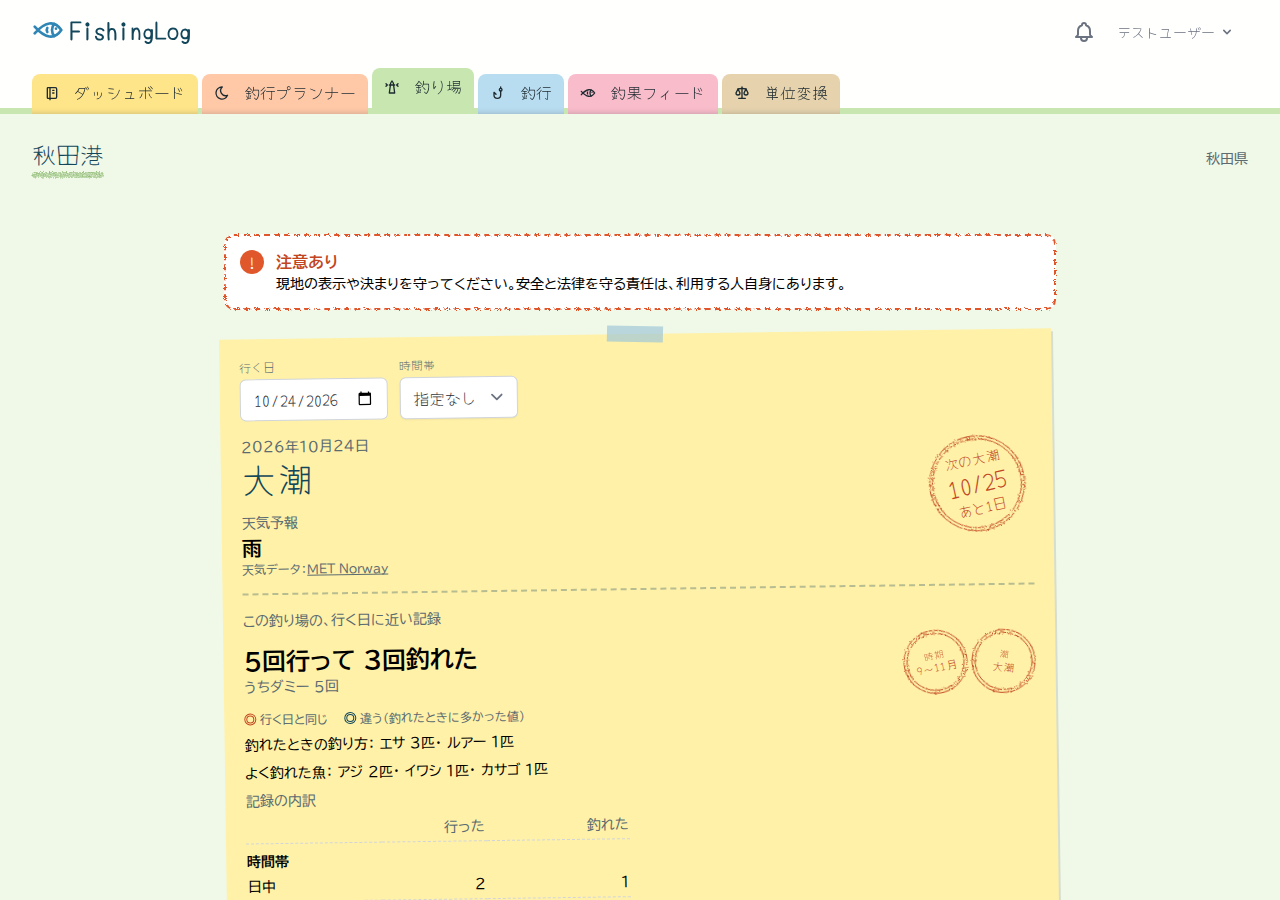
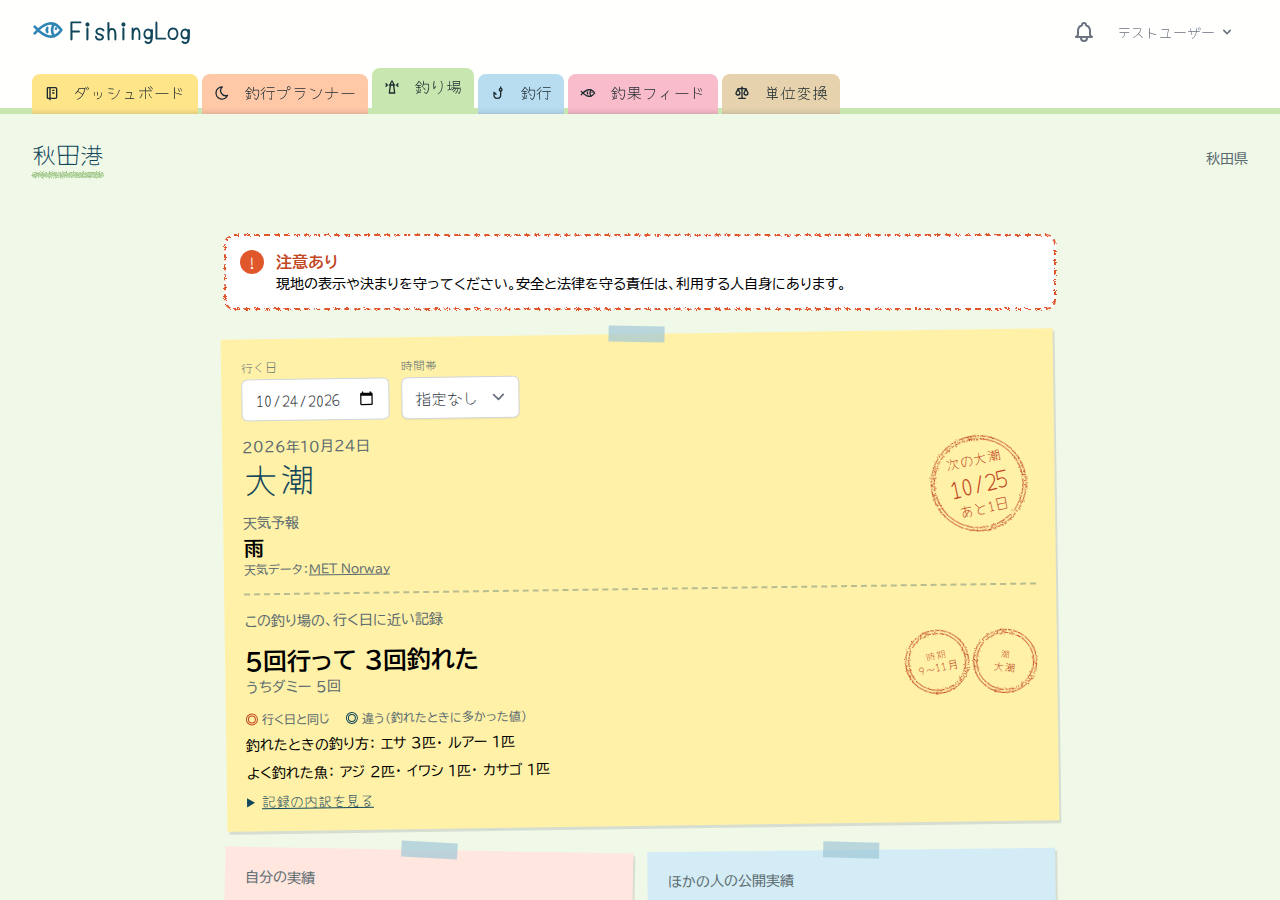
docs: 記録の内訳と変更の履歴の直しを使い方・対応表・README・記録に書き、カルテの画像を撮り直す (#223)

diff --git a/resources/views/static/guide.blade.php b/resources/views/static/guide.blade.php
@@ -42,7 +42,7 @@
                     <li>ダッシュボードの「次の釣行をプランする」か、付箋の「釣行プランナー」を開きます。ログインしていないときは、最初に県を選びます。</li>
                     <li><b>行く日</b>と<b>県</b>を選ぶと、その日の潮（旧暦から計算）と、過去の記録から釣り場が順に並びます。時間帯と「使う記録」（みんなの公開記録も使う／自分の記録だけ）も選べます（「使う記録」はログインした人だけ）。</li>
                     <li>釣り場ごとに、記録の近さが出ます。記録は、行く日と同じ時期（その月と前後1か月。何年でもよい）のものだけを使います。魚ごとに釣れる季節があるためです。<b>ぴったり一致</b>（時期・時間帯・潮が同じ）→ <b>時期と時間帯が一致</b> → <b>時期だけ一致</b> の順に、近い記録ほど当てになります。右のハンコは、時期・時間帯・潮のうち行く日と同じ条件がオレンジ、違う条件が青です（青には、釣れたときにいちばん多かった値が入ります）。</li>
-                    <li>「<b>記録の内訳を見る</b>」を押すと、数えた記録が時間帯・潮・年ごとに何回あるかが分かります。たとえば朝の記録ばかりなら、夜に行くときはあてにならないと判断できます。カルテでは、内訳を表でいつも出しています。</li>
+                    <li>「<b>記録の内訳を見る</b>」を押すと、数えた記録が時間帯・潮・年ごとに何回あるかが分かります。たとえば朝の記録ばかりなら、夜に行くときはあてにならないと判断できます。カルテでも同じ形で開けます。</li>
                     <li>灰色の「<b>ダミー</b>」の印が付いた釣行は、お試し環境で機能を試せるように作った記録で、本物の釣行ではありません。「うちダミー N回」は、数えた記録のうちダミーの回数です。</li>
                     <li>気になる釣り場を押すと<b>釣り場カルテ</b>が開きます。いちばん上の黄色の付箋（釣行判断ビュー）で、その条件のときに「何回行って何回釣れたか」と、釣れたときの釣り方・魚が分かります。</li>
                     <li>カルテには、天気予報・自分とほかの人の実績・月×魚種の表・釣行の履歴・現地の情報（駐車場・トイレなど）もあります。</li>

diff --git a/CLAUDE.md b/CLAUDE.md
@@ -101,7 +101,7 @@
 
 ## 今どこまでできているか（2026-10-24）
 
-**フェーズ1・フェーズ2は完了。** フェーズ3は条件検索（FN-03、#86）・CSV 出力（FN-04、#88）・継続カウンタと気づきカード（FN-10、#90）が完了。報告と管理画面（NF-04、#92・#94）が完了。見た目も土台（#96）・カルテ（#98）・ダッシュボードとプランナー（#100）・残りの画面（#102）でひととおり完了。テストは 399 件すべて成功。README も書き直した（#104）。シーダーの釣り場を実在の港と湖にした（#106）。ナビをインデックス付箋にした（#108）。注意のしるしと1位のマーカーを直した（#110）。魚や釣り具のアイコンと落書きを入れた（#112）。README に画面の画像を入れた（#114）。使い方のページを作った（#116）。利用規約とプライバシーポリシーを書き直し、退会で写真も消すようにした（#118）。エラーページ・タブのアイコン・初期のテストの片付け（#120）。単位変換ツール（#122）。せまい画面の付箋とスマホのメニューの並び（#124）。README の画面の画像を撮り直し、単位変換を足した。README に「記録が少ないうちも使い続けられる工夫」の節を足した（#126）。定義書との総点検で見つけた抜けを直した：釣り場一覧の釣果数と並べ替え（`sort`＝name／last／catches、ログインした人だけ）、釣り場のメモはカルテで本人だけ（#128）。プランナーとカルテから旧暦の表示を消し、カルテの次の大潮を付箋の右のスタンプにした（#130）。README の画面の表の3段目の画像の並びを直した（#132）。README の手順でゼロから動くことを確かめた。README の文を直した（要らない記載を消し、ひらがなの言葉を漢字に。#134）。インターネットに公開する準備（#136）：写真の保存先を `config/fishing.php` の `photo_disk`（PHOTO_DISK）で切りかえ（公開環境は s3＝Cloudflare R2）、お試し用アカウント `demo@example.com`（`User::isDemo()`。プロフィール・パスワードの変更と退会はできない）、公開環境のシーダーは admin を秘密のパスワード（ADMIN_PASSWORD）・ほかのダミーはランダム、`Dockerfile` と `docker/start.sh`（Render 用。起動のたびに migrate と `app:seed-if-empty`）、trustProxies と https。公開先は Render（アプリ）＋ Aiven（MySQL）＋ Cloudflare R2（写真）。釣行の記録の絞り込みで、県を「自分」にも出し（最初はメインフィールド、一覧と CSV も県で絞る）、県を選ぶと釣り場の候補がその県だけに入れかわる（#138、`spotPicker`）。公開した（#140）：https://fishing-log-hasx.onrender.com（Render 無料・Singapore、DB は Aiven の無料 MySQL、写真は Cloudflare R2 のバケット fishinglog-photos）。README のいちばん上に「お試し環境」。写真は保存のときに visibility を付けない（R2 が受け付けない）。天気のサービスの失敗はログに残す。**Render は main に push すると自動で公開し直す**。環境変数は Render の Environment にだけある。釣行の記録・編集・まとめて登録でも、県を選んでから釣り場を選ぶ（#142。最初はメインフィールドか選んである釣り場の県、写真の「この釣り場を選ぶ」は `select-spot` の知らせで県も切りかえる）。公開環境では Open-Meteo に1日の上限で断られる（429。Render の外へ出る住所をほかのアプリと一緒に使うため）ので、カルテは「今は取得できません」と開き直す案内を出す（#144、`forecastFailed`）。2026-10-15 に確かめると朝 9 時すぎしか取れなかったので、カルテの天気予報だけ MET Norway に変えた（#146。今日から 8 日先まで、その日でいちばん悪い天気、場所ごとに 1 時間覚える）。釣行の天候の自動入力は Open-Meteo のまま（取れなければ空で保存）。お試し環境の釣果に、自作の魚のイラスト（「サンプル」のスタンプ入り）を付けた（#148）。テストでは写真のフォルダを `Storage::fake('public')` にしている（`tests/TestCase.php`）。釣行の編集画面の今の写真も、写真の保存先の URL から出すようにした（#150。写真の URL は `FishCatch::photoUrl()` か `Storage::disk(PhotoStorer::disk())->url()` を使い、`asset('storage')` を決め打ちしない）。`NotificationSendTest` の退会のテストがまれに失敗していたのは、釣り場のファクトリーがランダムな県の登録者を作り、秋田県になるとその人にもお知らせが届いていたため（#152。テストでは釣り場の `created_by` を決める）。Aiven の無料のデータベースは「使われていない」と止められる（2026-10-15 18:53 に止められ、Power on で戻した。Event log の時刻は UTC）。GitHub Actions（`.github/workflows/keep-alive.yml`）で3時間に1回お試し環境を開いている（#154。リポジトリに60日間変更がないと GitHub が止める）。死活監視 UptimeRobot（無料）で5分おきに `/spots` を確かめていて、お試し環境は止まらない（#162。止まったらユーザーにメールが届く。GitHub Actions は予備）。**お試し環境が開かないときは、まず Aiven の `fishinglog-db` が Powered off になっていないか見る**。README のお試し環境に付箋ごとに試せることの表（#156）。プランナーとカルテの条件を、時期を先に絞る形にし、一致した条件をハンコで見せる（#158）。ダミーの釣行を840件にして季節を付け、公開環境のお試しデータを入れ直せるようにした（#160。入れ直したあとは釣り場の番号が変わる）。受けた指摘をもとに、改善を6つの Issue に分けて進めた（#162〜。死活監視 → 写真の後始末 → カルテと一覧の集計を DB に → プランナーの集計を DB に → 自己ベスト → 気づきカードの言い方と起動時の処理）。保存に失敗したときに写真のファイルを消すようにした（#164）。カルテと釣行一覧の集計をデータベースで行い、カルテの履歴を10件ずつにした（#166）。プランナーの集計もデータベースで行うようにした（#168）。自己ベスト：ダッシュボードの最大サイズから釣果へ、上位3つと /bests（写真つき。`BestController`、付箋はダッシュボード）（#170）。気づきカードを記録の少なさで言い分け、起動時の処理が同時に走らないようにした（#172）。この6つの改善はこれで全部済み。最大サイズと自己ベストに王冠を付けた（#174。釣行詳細の自己ベストの釣果に「自己ベスト」の印）。お試し用アカウントの自己ベストに、アイナメ以外サンプルのイラストを付けた（#176）。README のテストの件数を直した（#178）。シーズンヒートマップのページでダッシュボードの付箋が手前に出るようにした（#180）。記録の言い方をそろえた（#182）。PHP の緊急のセキュリティ修正で 8.5.12 に上げた（#184）。Dependabot で新しい版を見張るようにした（#186）。2回目の指摘（完了の説明・テストの再現・運用の決めごと）を受けて、直す手順を Notion の「FishingLog 2回目の指摘と直す手順」にまとめ、1つずつ進めている。① テストを GitHub Actions で自動で流す（#196）。② 要件ごとの対応表 `docs/requirements.md`（#198）。③ 現地の情報の変更履歴（#200。会員はカルテと `/spots/{spot}/history` で見られ、管理者は `POST /admin/spot-changes/{change}/revert` で戻せる）。④ 公開環境からパスワード再設定のメールを送れるようにした（#202。Brevo・Mailpit）。⑤ 公開環境の毎日の自動バックアップと戻す試し（#204）。⑥ 運用の手順書と本番リリース計画（#206。初回の点検は #207）。⑦ ゲストも釣行プランナーを試せるようにした（#209。数えるのはみんなの全体公開の記録だけ、県は選んでもらう（特定の県に決め打ちしない）、「自分の記録だけ」は会員だけ。トップに「登録しなくても試せること／登録すると使えること」）。⑧ ダミーの釣行に印を付け、記録の内訳を出した（#211。`users.is_sample`＝ダミーの人、印は `<x-dummy-tag :trip>`、回数は `ConditionMatcher` の `samples`、内訳は `breakdown()`・`breakdownBySpot()`。カルテは表 `spots/partials/breakdown-table`、プランナーは「記録の内訳を見る」。本番に移るときは `is_sample` の人を消す）。会員登録のときにメールアドレスを確かめるようにした（#213。`User` は `MustVerifyEmail`、ログインが必要なルートは `['auth', 'verified']`、プロフィールだけは `auth` のまま。送れないときは `sendEmailVerificationSafely()` で案内）。プロフィールのパスワードの変更を押すと開く形にし、カードを真ん中に置いた（#215）。⑨ 機能を主役・必須・補助・後回しに分けた（#217。README の「機能と優先度」と、対応表の「優先度」の列。**機能を足したら、どちらにも優先度を書く**。`RequirementsDocTest` が README との食い違いを確かめる）。⑩ 資料と画面の画像を見直した（#219。README の画像は scratchpad の `shoot.mjs`（Node 24 の WebSocket で chrome-headless-shell を動かす）で撮り直した。これで2回目の指摘の直しは全部済み）。README をコンパクトにし、詳しい内容を docs/ に分けた（#221）。最後の Issue は #221（PR と次の番号は画面で確かめる）。
+**フェーズ1・フェーズ2は完了。** フェーズ3は条件検索（FN-03、#86）・CSV 出力（FN-04、#88）・継続カウンタと気づきカード（FN-10、#90）が完了。報告と管理画面（NF-04、#92・#94）が完了。見た目も土台（#96）・カルテ（#98）・ダッシュボードとプランナー（#100）・残りの画面（#102）でひととおり完了。テストは 406 件すべて成功。README も書き直した（#104）。シーダーの釣り場を実在の港と湖にした（#106）。ナビをインデックス付箋にした（#108）。注意のしるしと1位のマーカーを直した（#110）。魚や釣り具のアイコンと落書きを入れた（#112）。README に画面の画像を入れた（#114）。使い方のページを作った（#116）。利用規約とプライバシーポリシーを書き直し、退会で写真も消すようにした（#118）。エラーページ・タブのアイコン・初期のテストの片付け（#120）。単位変換ツール（#122）。せまい画面の付箋とスマホのメニューの並び（#124）。README の画面の画像を撮り直し、単位変換を足した。README に「記録が少ないうちも使い続けられる工夫」の節を足した（#126）。定義書との総点検で見つけた抜けを直した：釣り場一覧の釣果数と並べ替え（`sort`＝name／last／catches、ログインした人だけ）、釣り場のメモはカルテで本人だけ（#128）。プランナーとカルテから旧暦の表示を消し、カルテの次の大潮を付箋の右のスタンプにした（#130）。README の画面の表の3段目の画像の並びを直した（#132）。README の手順でゼロから動くことを確かめた。README の文を直した（要らない記載を消し、ひらがなの言葉を漢字に。#134）。インターネットに公開する準備（#136）：写真の保存先を `config/fishing.php` の `photo_disk`（PHOTO_DISK）で切りかえ（公開環境は s3＝Cloudflare R2）、お試し用アカウント `demo@example.com`（`User::isDemo()`。プロフィール・パスワードの変更と退会はできない）、公開環境のシーダーは admin を秘密のパスワード（ADMIN_PASSWORD）・ほかのダミーはランダム、`Dockerfile` と `docker/start.sh`（Render 用。起動のたびに migrate と `app:seed-if-empty`）、trustProxies と https。公開先は Render（アプリ）＋ Aiven（MySQL）＋ Cloudflare R2（写真）。釣行の記録の絞り込みで、県を「自分」にも出し（最初はメインフィールド、一覧と CSV も県で絞る）、県を選ぶと釣り場の候補がその県だけに入れかわる（#138、`spotPicker`）。公開した（#140）：https://fishing-log-hasx.onrender.com（Render 無料・Singapore、DB は Aiven の無料 MySQL、写真は Cloudflare R2 のバケット fishinglog-photos）。README のいちばん上に「お試し環境」。写真は保存のときに visibility を付けない（R2 が受け付けない）。天気のサービスの失敗はログに残す。**Render は main に push すると自動で公開し直す**。環境変数は Render の Environment にだけある。釣行の記録・編集・まとめて登録でも、県を選んでから釣り場を選ぶ（#142。最初はメインフィールドか選んである釣り場の県、写真の「この釣り場を選ぶ」は `select-spot` の知らせで県も切りかえる）。公開環境では Open-Meteo に1日の上限で断られる（429。Render の外へ出る住所をほかのアプリと一緒に使うため）ので、カルテは「今は取得できません」と開き直す案内を出す（#144、`forecastFailed`）。2026-10-15 に確かめると朝 9 時すぎしか取れなかったので、カルテの天気予報だけ MET Norway に変えた（#146。今日から 8 日先まで、その日でいちばん悪い天気、場所ごとに 1 時間覚える）。釣行の天候の自動入力は Open-Meteo のまま（取れなければ空で保存）。お試し環境の釣果に、自作の魚のイラスト（「サンプル」のスタンプ入り）を付けた（#148）。テストでは写真のフォルダを `Storage::fake('public')` にしている（`tests/TestCase.php`）。釣行の編集画面の今の写真も、写真の保存先の URL から出すようにした（#150。写真の URL は `FishCatch::photoUrl()` か `Storage::disk(PhotoStorer::disk())->url()` を使い、`asset('storage')` を決め打ちしない）。`NotificationSendTest` の退会のテストがまれに失敗していたのは、釣り場のファクトリーがランダムな県の登録者を作り、秋田県になるとその人にもお知らせが届いていたため（#152。テストでは釣り場の `created_by` を決める）。Aiven の無料のデータベースは「使われていない」と止められる（2026-10-15 18:53 に止められ、Power on で戻した。Event log の時刻は UTC）。GitHub Actions（`.github/workflows/keep-alive.yml`）で3時間に1回お試し環境を開いている（#154。リポジトリに60日間変更がないと GitHub が止める）。死活監視 UptimeRobot（無料）で5分おきに `/spots` を確かめていて、お試し環境は止まらない（#162。止まったらユーザーにメールが届く。GitHub Actions は予備）。**お試し環境が開かないときは、まず Aiven の `fishinglog-db` が Powered off になっていないか見る**。README のお試し環境に付箋ごとに試せることの表（#156）。プランナーとカルテの条件を、時期を先に絞る形にし、一致した条件をハンコで見せる（#158）。ダミーの釣行を840件にして季節を付け、公開環境のお試しデータを入れ直せるようにした（#160。入れ直したあとは釣り場の番号が変わる）。受けた指摘をもとに、改善を6つの Issue に分けて進めた（#162〜。死活監視 → 写真の後始末 → カルテと一覧の集計を DB に → プランナーの集計を DB に → 自己ベスト → 気づきカードの言い方と起動時の処理）。保存に失敗したときに写真のファイルを消すようにした（#164）。カルテと釣行一覧の集計をデータベースで行い、カルテの履歴を10件ずつにした（#166）。プランナーの集計もデータベースで行うようにした（#168）。自己ベスト：ダッシュボードの最大サイズから釣果へ、上位3つと /bests（写真つき。`BestController`、付箋はダッシュボード）（#170）。気づきカードを記録の少なさで言い分け、起動時の処理が同時に走らないようにした（#172）。この6つの改善はこれで全部済み。最大サイズと自己ベストに王冠を付けた（#174。釣行詳細の自己ベストの釣果に「自己ベスト」の印）。お試し用アカウントの自己ベストに、アイナメ以外サンプルのイラストを付けた（#176）。README のテストの件数を直した（#178）。シーズンヒートマップのページでダッシュボードの付箋が手前に出るようにした（#180）。記録の言い方をそろえた（#182）。PHP の緊急のセキュリティ修正で 8.5.12 に上げた（#184）。Dependabot で新しい版を見張るようにした（#186）。2回目の指摘（完了の説明・テストの再現・運用の決めごと）を受けて、直す手順を Notion の「FishingLog 2回目の指摘と直す手順」にまとめ、1つずつ進めている。① テストを GitHub Actions で自動で流す（#196）。② 要件ごとの対応表 `docs/requirements.md`（#198）。③ 現地の情報の変更履歴（#200。会員はカルテと `/spots/{spot}/history` で見られ、管理者は `POST /admin/spot-changes/{change}/revert` で戻せる）。④ 公開環境からパスワード再設定のメールを送れるようにした（#202。Brevo・Mailpit）。⑤ 公開環境の毎日の自動バックアップと戻す試し（#204）。⑥ 運用の手順書と本番リリース計画（#206。初回の点検は #207）。⑦ ゲストも釣行プランナーを試せるようにした（#209。数えるのはみんなの全体公開の記録だけ、県は選んでもらう（特定の県に決め打ちしない）、「自分の記録だけ」は会員だけ。トップに「登録しなくても試せること／登録すると使えること」）。⑧ ダミーの釣行に印を付け、記録の内訳を出した（#211。`users.is_sample`＝ダミーの人、印は `<x-dummy-tag :trip>`、回数は `ConditionMatcher` の `samples`、内訳は `breakdown()`・`breakdownBySpot()`。カルテとプランナーで同じ部品 `<x-record-breakdown>`（「記録の内訳を見る」で開く。#223）。本番に移るときは `is_sample` の人を消す）。会員登録のときにメールアドレスを確かめるようにした（#213。`User` は `MustVerifyEmail`、ログインが必要なルートは `['auth', 'verified']`、プロフィールだけは `auth` のまま。送れないときは `sendEmailVerificationSafely()` で案内）。プロフィールのパスワードの変更を押すと開く形にし、カードを真ん中に置いた（#215）。⑨ 機能を主役・必須・補助・後回しに分けた（#217。README の「機能と優先度」と、対応表の「優先度」の列。**機能を足したら、どちらにも優先度を書く**。`RequirementsDocTest` が README との食い違いを確かめる）。⑩ 資料と画面の画像を見直した（#219。README の画像は scratchpad の `shoot.mjs`（Node 24 の WebSocket で chrome-headless-shell を動かす）で撮り直した。これで2回目の指摘の直しは全部済み）。README をコンパクトにし、詳しい内容を docs/ に分けた（#221）。モデル港のメモの同じ文を1回にし、変更の履歴は改行だけの違いを残さず長いメモを短く出す、記録の内訳をカルテとプランナーでそろえた（#223。`LocalInfoHistory::normalize()` が改行をそろえる）。最後の Issue は #223（PR と次の番号は画面で確かめる）。
 
 ### フェーズ2でやったこと（決めたことは `docs/decisions.md`）
 

diff --git a/docs/decisions.md b/docs/decisions.md
@@ -254,3 +254,4 @@
 | 2026-10-24 | プロフィールのパスワードの変更をコンパクトに | FN-05：プロフィール編集 | パスワードの変更は、ふだんは見出しと説明の1行だけにし、押すと入力欄が開く形（`details`）にする。エラーのときと変えたあとは開いたまま。プロフィールのカードは、ほかの画面と同じ幅（`max-w-2xl`）で真ん中に置く | たまにしか使わない入力欄が大きく場所を取り、中身が左に寄っていた（ユーザーが画面で気づいた）。パスワード再設定は忘れたとき、プロフィールの変更は覚えていて変えたいとき、と使う場面が違うので、機能は残した |
 | 2026-10-24 | 機能の優先順位と境界 | 定義書の Phase：Phase 1 に FN-01・05・06・07・08・09・11・12・13・14・15・16・17、Phase 3 に NF-04（報告と管理画面）。主役は FN-16・FN-11 | 機能を「主役（FN-16・FN-09・FN-11）・必須（主役の土台と、公開して使ってもらうのに欠かせない運用）・補助（なくても主役は動く）・後回し（今回は作らない）」に分け、README の「機能の優先順位と境界」と、要件の対応表の「優先度」の列に書く。定義書の Phase 1 のうちダッシュボード（FN-06）・ハイライト（FN-07）・釣果フィード（FN-13）は補助に下げ、Phase 3 の報告と管理画面（NF-04）と、定義書にないメールアドレスの確認は必須に上げる。完成の境界は「お試し環境として（主役と必須がそろう）」と「本番として（開発者自身の釣行の登録と本番リリース計画の必須が済む）」の2段 | 機能を広げることに対して完了条件や運用の準備が追いついておらず、主要な機能と必須の運用を優先して後続の機能との境界を明確にするべきだ、という指摘を受けたため。定義書の優先順位そのものを見直すことが求められていると考え、定義書の Phase にはそろえない（ユーザーの判断）。FN-06・07 はなくてもプランナーとカルテで判断でき、FN-13 の「ゲストの入口」の役目はゲストも試せるプランナーが担える（#209）。後回しは、定義書と本番リリース計画に書いてあるものだけにした。`RequirementsDocTest` で、優先度の書き忘れ・まとめの件数・README との食い違いを確かめる |
 | 2026-10-24 | README をコンパクトに | 記載なし | README を「入口」（何のアプリか・お試し環境・画面・機能と優先度・工夫・使った技術・動かし方・資料の一覧・開発の記録）にして 437 行から 166 行にした。「使い方」「機能の優先順位と境界」「主な機能」は優先度ごとの1つの表にまとめた。ER 図は `docs/database.md`、開発用のログインとデータ・気をつけること・負荷の確かめは `docs/development.md`、公開先の止まらないしくみと起動時の処理は `docs/operations.md` に移した。見張りのテスト（ER 図・優先度）は新しい置き場所を読む | 直しを重ねて README が広がり、見つけにくくなった（ユーザーの判断）。実務では README を入口にし、詳しい資料は分けてリンクする形が多い。移した内容は消さずに資料に残した |
+| 2026-10-24 | 現地のメモと変更の履歴を見やすく・記録の内訳をそろえる | FN-14：現地の情報（変更の履歴は #200 で足した）。FN-11・FN-16：記録の内訳（#211） | モデル港のメモを1つの文にまとめ「港の管理者の案内」を1回にする（シーダーと、今あるメモはマイグレーションで。シーダーが入れたままのメモだけ直し、更新日は変えない）。変更の履歴は改行の文字（\r\n と \n）をそろえて比べ、改行だけの違いは残さない（今ある分はマイグレーションで消す）。履歴の一覧では長いメモを始めの30文字と「…」にし、「全文を見る」で前と後を開く。記録の内訳は1つの部品（`x-record-breakdown`）にし、カルテもプランナーと同じ「記録の内訳を見る」で開く形（時間帯・潮・年）にする | 同じ注意の文が何度も出て見づらく、変更の履歴にも長いメモが前と後で丸ごと並んでいた（ユーザーが画面で気づいた）。その履歴の多くは、入力欄から保存したときに改行が \r\n になっただけの見かけの変更だった。内訳はカルテとプランナーで形も項目も違っていたので、ユーザーの判断で押すと開く形にそろえた |

diff --git a/docs/requirements.md b/docs/requirements.md
@@ -8,7 +8,7 @@
 | 項目 | 内容 |
 |---|---|
 | 文書名 | FishingLog 要件ごとの対応表 |
-| 版 | 1.10 |
+| 版 | 1.11 |
 | 作成日 | 2026-10-23 |
 | 最終更新日 | 2026-10-23 |
 | 作成者 | kazuyuki-a-dev |
@@ -29,6 +29,7 @@
 | 1.8 | 2026-10-24 | 一覧に優先度（主役・必須・補助）の列と、優先度ごとのまとめ・完成の境界を足した。FN-05 に公開環境で確認のメールを確かめた結果を書いた | #217 |
 | 1.9 | 2026-10-24 | 最後の見直し：PG18 にメールアドレスの確かめ直しとパスワードの変更の形を足し、自動テストで確かめる要件の確認日を最後の実行の日にそろえた | #219 |
 | 1.10 | 2026-10-24 | README の節の名前が「機能と優先度」に変わったので、参照を直した | #221 |
+| 1.11 | 2026-10-24 | FN-11 の記録の内訳をプランナーと同じ形にした。FN-14 に変更の履歴の直し（改行だけの違いは残さない・長いメモは短く出す）を書いた | #223 |
 
 ## 確認した環境
 
@@ -389,7 +390,7 @@
 
 結果：成功（GitHub Actions）
 
-備考：時期（前後1か月）をいつも条件に入れ、一致をハンコで見せる（#158）。天気予報は MET Norway（#146）。記録の内訳は表でいつも出し、時間帯で絞っていないときは記録がない時間帯も書く（#211）
+備考：時期（前後1か月）をいつも条件に入れ、一致をハンコで見せる（#158）。天気予報は MET Norway（#146）。記録の内訳は、プランナーと同じ部品で「記録の内訳を見る」を押すと開く（時間帯・潮・年。#211・#223）。時間帯で絞っていないときは記録がない時間帯も書く
 
 ### FN-12
 
@@ -472,6 +473,8 @@
 - `LocalInfoHistoryTest::test_admin_can_revert_a_change_and_the_revert_is_recorded`
 - `LocalInfoHistoryTest::test_only_admin_can_revert`
 - 画面：会員で現地の情報を2回直し、カルテの「変更の履歴」と「すべての履歴を見る」を確かめる。ログアウトすると出ないこと。admin@example.com で「この変更の前に戻す」を押すと値が戻ること
+- `LocalInfoHistoryTest::test_line_break_difference_is_not_recorded`
+- `LocalInfoHistoryTest::test_long_note_is_shortened_in_the_list_and_full_text_can_be_opened`
 
 結果：成功（GitHub Actions）。画面も確認済み（開発環境）
 
@@ -741,7 +744,7 @@
 
 結果：成功（GitHub Actions）
 
-備考：テストは公開範囲とアクセス制御に絞らず、計算や入力チェックにも書いた（399件）
+備考：テストは公開範囲とアクセス制御に絞らず、計算や入力チェックにも書いた（406件）
 
 ### NF-07
 

diff --git a/README.md b/README.md
@@ -46,7 +46,7 @@
 <th>釣果フィード</th>
 </tr>
 <tr>
-<td><img src="docs/images/screen-karte.png" alt="釣り場カルテ：付箋の釣行判断ビュー。うちダミーの回数と、記録の内訳の表" width="420"></td>
+<td><img src="docs/images/screen-karte.png" alt="釣り場カルテ：付箋の釣行判断ビュー。うちダミーの回数と、記録の内訳を見るボタン" width="420"></td>
 <td><img src="docs/images/screen-feed.png" alt="釣果フィード：みんなの公開釣果。ダミーの釣行に灰色の印" width="420"></td>
 </tr>
 <tr>
@@ -135,7 +135,7 @@ cp .env.example .env
 
 ブラウザで http://localhost を開きます。開発用のログイン（`test@example.com` ／ `password` など）・入るデータ・気をつけること（`sail down -v` を使わない、など）は [`docs/development.md`](docs/development.md) にあります。
 
-**テスト**：`./vendor/bin/sail artisan test`（399 件。公開範囲とアクセス制御を中心に、計算や入力チェックも）。push のたびに GitHub Actions（[`.github/workflows/tests.yml`](.github/workflows/tests.yml)）でも全部のテストを流しています。いちばん上のバッジが緑なら main はすべて成功で、[Actions の画面](https://github.com/kazuyuki-a-dev/fishing-log/actions/workflows/tests.yml) の Summary で件数を見られます。
+**テスト**：`./vendor/bin/sail artisan test`（406 件。公開範囲とアクセス制御を中心に、計算や入力チェックも）。push のたびに GitHub Actions（[`.github/workflows/tests.yml`](.github/workflows/tests.yml)）でも全部のテストを流しています。いちばん上のバッジが緑なら main はすべて成功で、[Actions の画面](https://github.com/kazuyuki-a-dev/fishing-log/actions/workflows/tests.yml) の Summary で件数を見られます。
 
 ## 資料の一覧
 
